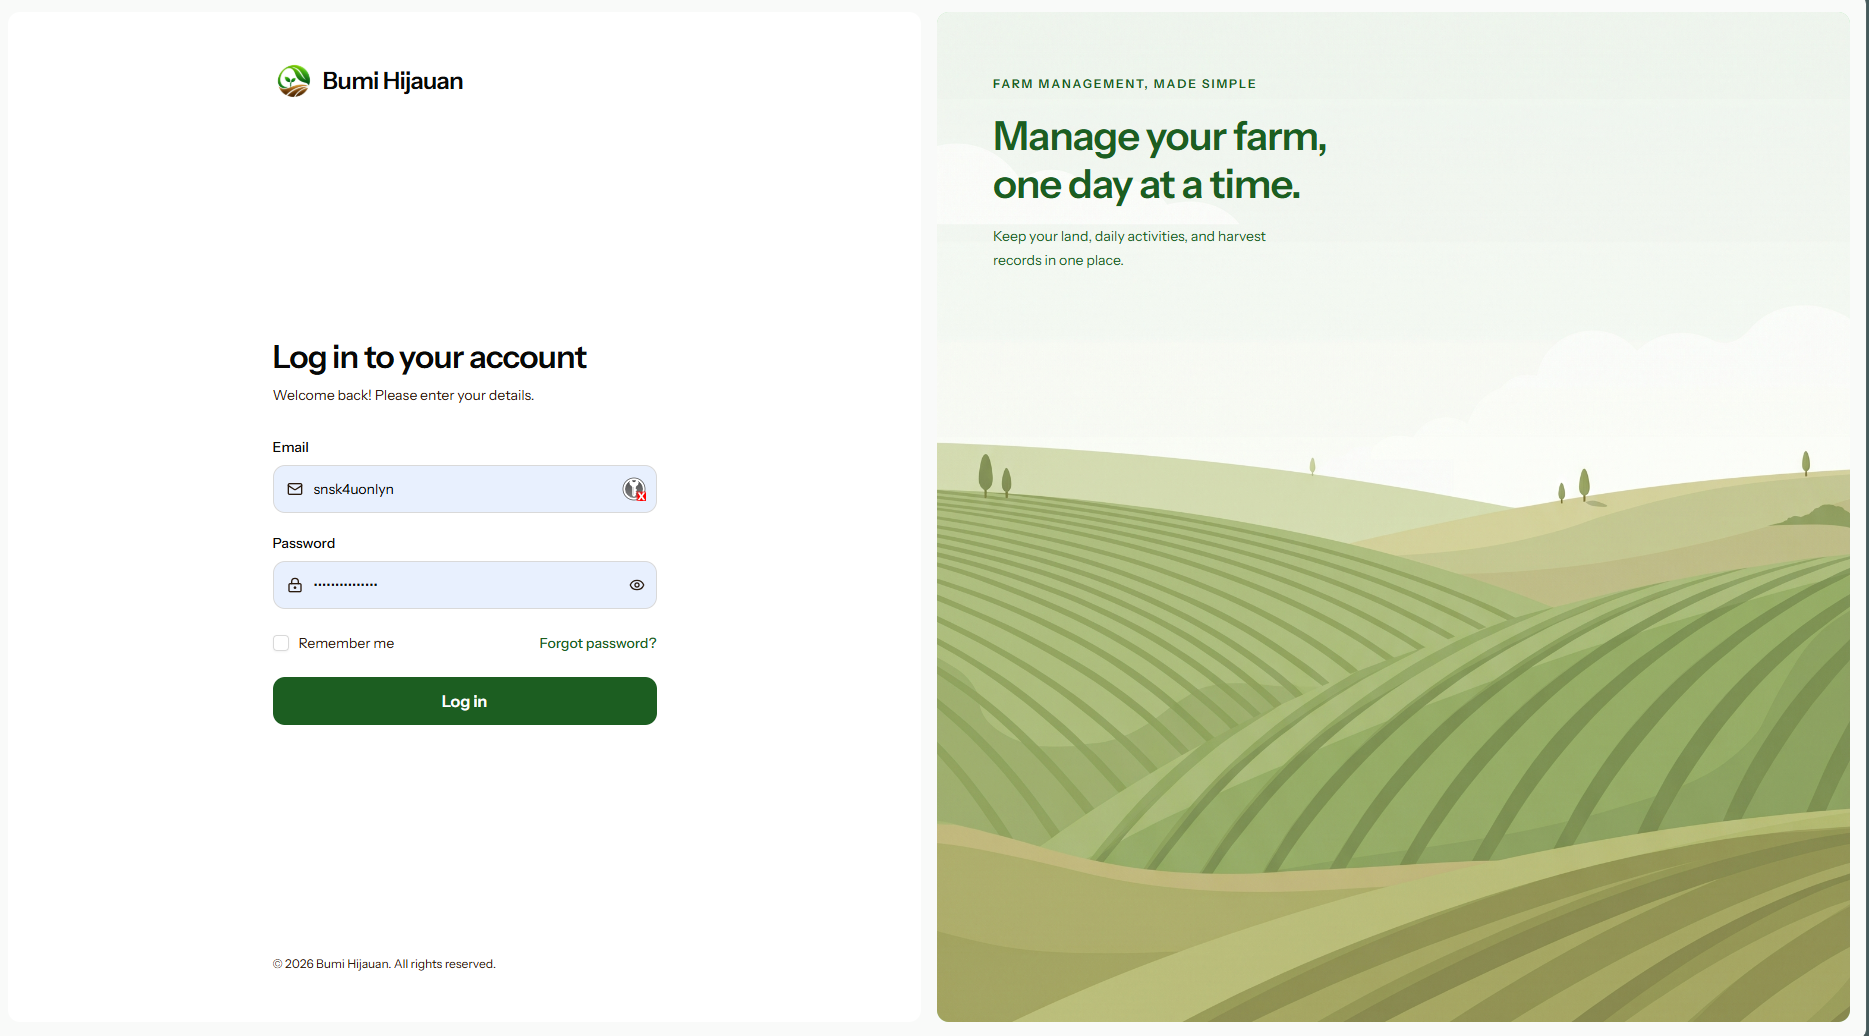
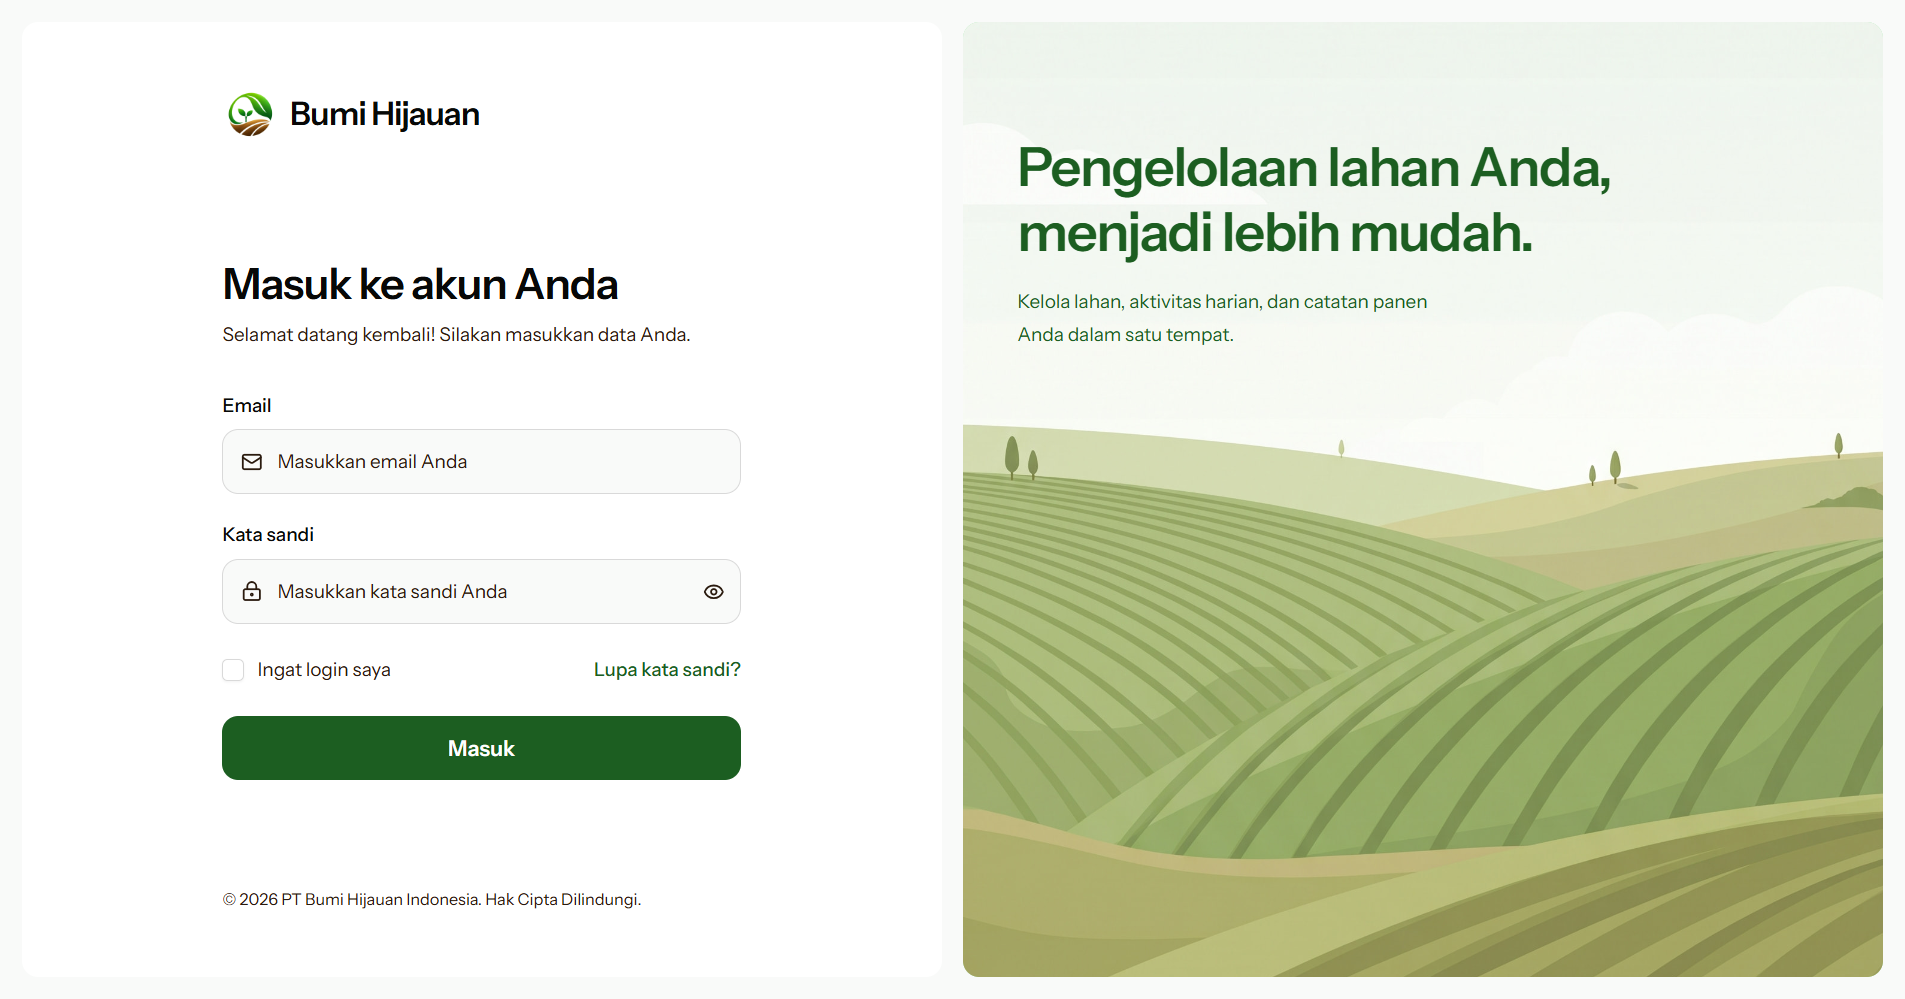
docs: updated stale documentation media

diff --git a/docs/panduan-pengguna/sections/05-blok-subblok-sop.tex b/docs/panduan-pengguna/sections/05-blok-subblok-sop.tex
@@ -3,10 +3,10 @@
 \subsection{Tambahkan blok}
 
 \begin{enumerate}[series=admin-blok]
-  \item Dari detail lahan, pilih \textbf{Tambah blok}. Gambar~\ref{fig:detail-lahan} menunjukkan letak aksi \textbf{Tambah blok} (1) dan \textbf{Tambah subblok} (2).
+  \item Dari detail lahan, pilih \textbf{Tambah blok}. Gambar~\ref{fig:detail-lahan} menampilkan halaman detail lahan beserta tombol \textbf{Tambah blok} dan \textbf{Tambah sub blok}.
 \end{enumerate}
 
-\guideimage{02-detail-lahan.png}{Detail lahan. Gunakan tombol Tambah blok (1) untuk memulai pembagian lahan, atau Tambah subblok (2) pada blok yang sudah ada. (Label menu pada tangkapan layar masih memakai Manajemen Kebun versi sebelumnya.)}{fig:detail-lahan}
+\guideimage{02-detail-lahan.png}{Detail lahan pada menu Manajemen Lahan. Gunakan tombol Tambah blok untuk memulai pembagian lahan, atau Tambah sub blok pada bagian subblok.}{fig:detail-lahan}
 
 \begin{enumerate}[resume=admin-blok]
   \item Pilih \textbf{Komoditas blok} terlebih dahulu (Gambar~\ref{fig:tambah-blok}). Pilihan \textbf{SOP default blok} mengikuti komoditas yang dipilih.
@@ -18,7 +18,7 @@
   \item Tekan \textbf{Simpan blok}, lalu periksa hasilnya di halaman detail lahan.
 \end{enumerate}
 
-\guideimage[0.72\linewidth]{03-form-tambah-blok.png}{Form tambah blok. Pilih komoditas (1) dan SOP default (2), lengkapi nama, luas, serta satuan, lalu simpan (3). Pada versi terbaru, kolom Kode blok sudah dihapus dan bagian bawah form memiliki pemetaan Batas blok di peta (terlihat pada Gambar~\ref{fig:sop-pada-blok}). Pada contoh ini kapasitas blok aktif adalah 0~ha sehingga tombol simpan nonaktif.}{fig:tambah-blok}
+\guideimage[0.72\linewidth]{03-form-tambah-blok.png}{Form tambah blok. Pilih komoditas blok dan SOP default blok, lengkapi nama, luas, satuan, serta batas blok di peta bila diperlukan, lalu pilih Simpan blok.}{fig:tambah-blok}
 
 \subsection{Tambahkan subblok}
 
@@ -31,7 +31,7 @@
   \item Setelah subblok tersedia, Petugas dapat menjalankan alur penanaman untuk bagian tersebut. Aktivitas persiapan tertentu, seperti pembersihan lahan, dapat dicatat pada tingkat blok sesuai alur aplikasi.
 \end{enumerate}
 
-\guideimage[0.78\linewidth]{04-form-tambah-subblok.png}{Form tambah subblok. Label dan rencana tanggal tanam (1) bersifat opsional sebelum menekan Tambah sub blok (2). Catatan: versi terbaru menambahkan pilihan wajib Siklus lahan di bagian atas form serta daftar riwayat subblok terdaftar.}{fig:tambah-subblok}
+\guideimage[0.78\linewidth]{04-form-tambah-subblok.png}{Form tambah sub blok. Pilih siklus lahan, tinjau riwayat subblok terdaftar bila ada, lalu isi label dan rencana tanggal tanam (opsional) sebelum menekan Tambah sub blok.}{fig:tambah-subblok}
 
 \subsection{Membuat, menerbitkan, dan merevisi SOP}
 \label{subsec:kelola-sop}
@@ -70,7 +70,7 @@ Admin dan Superadmin membuat SOP per komoditas melalui menu \textbf{SOP}. Pandua
   \item Di jendela \textbf{Tambah langkah SOP} (Gambar~\ref{fig:sop-tambah-langkah}), isi nama langkah, kategori aktivitas, \textbf{Jadwal setelah tanam (hari)}, \textbf{Toleransi (hari)}, dan instruksi. \textbf{Estimasi HOK} bersifat opsional.
 \end{enumerate}
 
-\guideimage{Gambar5SOP.png}{Jendela Tambah langkah SOP. Catatan: pada versi terbaru, label Offset HST (hari) berubah menjadi Jadwal setelah tanam (hari) dengan isian kosong (contoh: 14) dan nilai awal Toleransi (hari) berubah menjadi 7 hari.}{fig:sop-tambah-langkah}
+\guideimage{Gambar5SOP.png}{Jendela Tambah langkah SOP untuk mengisi nama langkah, kategori aktivitas, estimasi HOK, jadwal setelah tanam, toleransi, dan instruksi pelaksanaan.}{fig:sop-tambah-langkah}
 
 Rincian setiap kolom pada jendela langkah SOP:
 \begin{itemize}
@@ -92,7 +92,7 @@ Rincian setiap kolom pada jendela langkah SOP:
   \item Pilih \textbf{Publikasikan}. Versi yang terbit menjadi acuan yang dapat dipilih untuk blok (Gambar~\ref{fig:sop-published}). Versi \textbf{Published} dibekukan dan langkahnya tidak dapat diedit langsung.
 \end{enumerate}
 
-\guideimage{Gambar7SOP.png}{Detail SOP berstatus Published setelah diterbitkan. (Tangkapan layar pada gambar ini masih menampilkan status Draft versi sebelumnya.)}{fig:sop-published}
+\guideimage{Gambar7SOP.png}{Detail SOP berstatus Published setelah diterbitkan.}{fig:sop-published}
 
 \subsubsection{Revisi melalui versi baru}
 

diff --git a/docs/panduan-pengguna/sections/06-alur-petugas-mobile.tex b/docs/panduan-pengguna/sections/06-alur-petugas-mobile.tex
@@ -11,7 +11,7 @@ Bagian ini mengikuti alur tugas SOP dari beranda sampai tugas ditandai selesai. 
   \item Jika tugas atau insiden yang diharapkan tidak terlihat, pastikan lahan yang ditugaskan benar dan periksa menu Tugas bersama Admin.
 \end{enumerate}
 
-\guidemobileimage[0.40\linewidth]{GambarPetugas1.png}{Beranda Petugas: tinjau insiden aktif dan pilih tugas pada daftar tugas. Catatan: pada versi terbaru, judul daftar To-do hari ini telah diperbarui menjadi Tugas perlu tindakan disertai tautan Lihat semua dan tanggal jadwal pada kartu tugas.}{fig:petugas-beranda}
+\guidemobileimage[0.40\linewidth]{GambarPetugas1.png}{Beranda Petugas: tinjau insiden aktif dan pilih tugas pada bagian Tugas perlu tindakan, atau tekan Lihat semua untuk melihat daftar lengkap tugas.}{fig:petugas-beranda}
 
 \subsection{Buka dan pahami detail tugas}
 
@@ -49,7 +49,7 @@ Bagian ini mengikuti alur tugas SOP dari beranda sampai tugas ditandai selesai. 
   \item Tersimpannya laporan \textbf{tidak otomatis menyelesaikan tugas}. Status tugas berubah menjadi \textbf{Dikerjakan} dan dapat tetap demikian selama masih ada pekerjaan yang harus dituntaskan (Gambar~\ref{fig:petugas-status-dikerjakan}).
 \end{enumerate}
 
-\guidemobileimage[0.46\linewidth]{GambarPetugas10.png}{Setelah laporan terkait dikirim, tugas tampak berstatus Dikerjakan; status ini belum berarti tugas selesai.}{fig:petugas-status-dikerjakan}
+\guidemobileimage[0.46\linewidth]{GambarPetugas10.png}{Contoh tugas berstatus Dikerjakan pada daftar Tugas perlu tindakan setelah laporan terkait tersimpan; status ini belum berarti tugas selesai.}{fig:petugas-status-dikerjakan}
 
 \begin{enumerate}[resume=petugas-selesai]
   \item Setelah seluruh pekerjaan benar-benar selesai, buka kembali detail tugas, isi \textbf{Catatan penyelesaian (opsional)} bila perlu, lalu tekan \textbf{Selesaikan tugas} (Gambar~\ref{fig:petugas-selesaikan-tugas}).

diff --git a/docs/panduan-pengguna/sections/02-persiapan-masuk.tex b/docs/panduan-pengguna/sections/02-persiapan-masuk.tex
@@ -18,10 +18,6 @@
   \item Setelah berhasil masuk, aplikasi mengarahkan pengguna ke area yang sesuai dengan perannya.
 \end{enumerate}
 
-\begin{guidebox}{Catatan pembaruan antarmuka}
-  Halaman masuk terbaru sudah menggunakan bahasa Indonesia (\textbf{Masuk ke akun Anda}, \textbf{Kata sandi}, \textbf{Masuk}). Tangkapan layar pada Gambar~\ref{fig:halaman-masuk-desktop} dan~\ref{fig:halaman-masuk-mobile} masih menampilkan versi bahasa Inggris sebelumnya (\emph{Log in}).
-\end{guidebox}
+\guideimage{05-form-login-desktop.png}{Halaman masuk Bumi Hijauan pada layar desktop. Masukkan email dan kata sandi, lalu pilih Masuk.}{fig:halaman-masuk-desktop}
 
-\guideimage{05-form-login-desktop.png}{Halaman masuk Bumi Hijauan pada layar desktop (tangkapan layar versi bahasa Inggris sebelumnya; versi terbaru memakai tombol Masuk).}{fig:halaman-masuk-desktop}
-
-\guidemobileimage[0.36\linewidth]{06-form-login-mobile.png}{Halaman masuk Bumi Hijauan pada layar mobile (tangkapan layar versi bahasa Inggris sebelumnya).}{fig:halaman-masuk-mobile}
+\guidemobileimage[0.36\linewidth]{06-form-login-mobile.png}{Halaman masuk Bumi Hijauan pada layar mobile.}{fig:halaman-masuk-mobile}

diff --git a/docs/panduan-pengguna/sections/04-mencatat-lahan.tex b/docs/panduan-pengguna/sections/04-mencatat-lahan.tex
@@ -4,7 +4,7 @@ Buka menu \textbf{Manajemen Lahan}, lalu pilih \textbf{Tambah lahan} (Gambar~\re
 
 \guideimage{07-list-management-lahan.png}{Daftar Manajemen Lahan. Gunakan pencarian atau filter untuk menemukan lahan; pilih Tambah lahan untuk mencatat lahan baru.}{fig:daftar-lahan}
 
-\guideimage{01-form-tambah-lahan.png}{Form tambah lahan. Penanda (1) menunjukkan pemilihan wilayah secara berurutan; penanda (2) menunjukkan tombol Simpan. Catatan: tangkapan layar ini masih menampilkan label versi lama (Manajemen Kebun / Tautan foto), sedangkan versi terbaru memakai label Manajemen Lahan dan unggah foto dokumentasi.}{fig:tambah-lahan}
+\guideimage{01-form-tambah-lahan.png}{Form tambah lahan pada menu Manajemen Lahan. Lengkapi informasi dan lokasi lahan secara berurutan, unggah foto dokumentasi bila ada, lalu pilih Simpan lahan.}{fig:tambah-lahan}
 
 \subsection{Informasi lahan}
 

diff --git a/docs/panduan-pengguna/README.md b/docs/panduan-pengguna/README.md
@@ -61,13 +61,8 @@ xelatex -output-directory=build main.tex
 4. **Update versi:** Ubah `\GuideVersion` dan `\GuideDate` di `main.tex` sebelum merilis PDF baru.
 5. **Jangan commit folder `build/`:** Folder `build/` sudah diabaikan oleh `.gitignore`.
 
-## Daftar Tangkapan Layar Lama yang Perlu Diperbarui
+## Catatan Aset Tangkapan Layar
 
-Teks panduan sudah diselaraskan dengan pembaruan dari cabang `dev`, namun aset gambar berikut di `gambar/` masih menampilkan versi UI sebelumnya dan perlu diperbarui pada rilis dokumentasi berikutnya:
+Seluruh tangkapan layar utama telah disesuaikan dengan tampilan terbaru. Catatan untuk pembaruan berikutnya:
 
-- `05-form-login-desktop.png` & `06-form-login-mobile.png`: halaman masuk kini berbahasa Indonesia (**Masuk**).
-- `01-form-tambah-lahan.png` & `02-detail-lahan.png`: label *Manajemen Kebun* / *Tautan foto* berubah menjadi **Manajemen Lahan** dan unggah foto dokumentasi.
-- `03-form-tambah-blok.png` & `04-form-tambah-subblok.png`: *Kode blok* dihapus + ada pemetaan **Batas blok di peta**; form subblok kini memiliki pilihan **Siklus lahan**.
-- `Gambar5SOP.png`: label *Offset HST (hari)* berubah menjadi **Jadwal setelah tanam (hari)**.
-- `Gambar7SOP.png`: masih menampilkan status *Draft* alih-alih *Published*.
-- `GambarPetugas1.png` & `GambarPetugas10.png`: bagian *To-do hari ini* kini berjudul **Tugas perlu tindakan** dengan tautan **Lihat semua**.
+- `GambarPetugas10.png` saat ini identik dengan `GambarPetugas1.png` (tampilan *Beranda* dengan kartu tugas berstatus *Dikerjakan*); bila diperlukan, dapat diganti dengan tangkapan layar halaman **Tugas** penuh untuk variasi visual.
